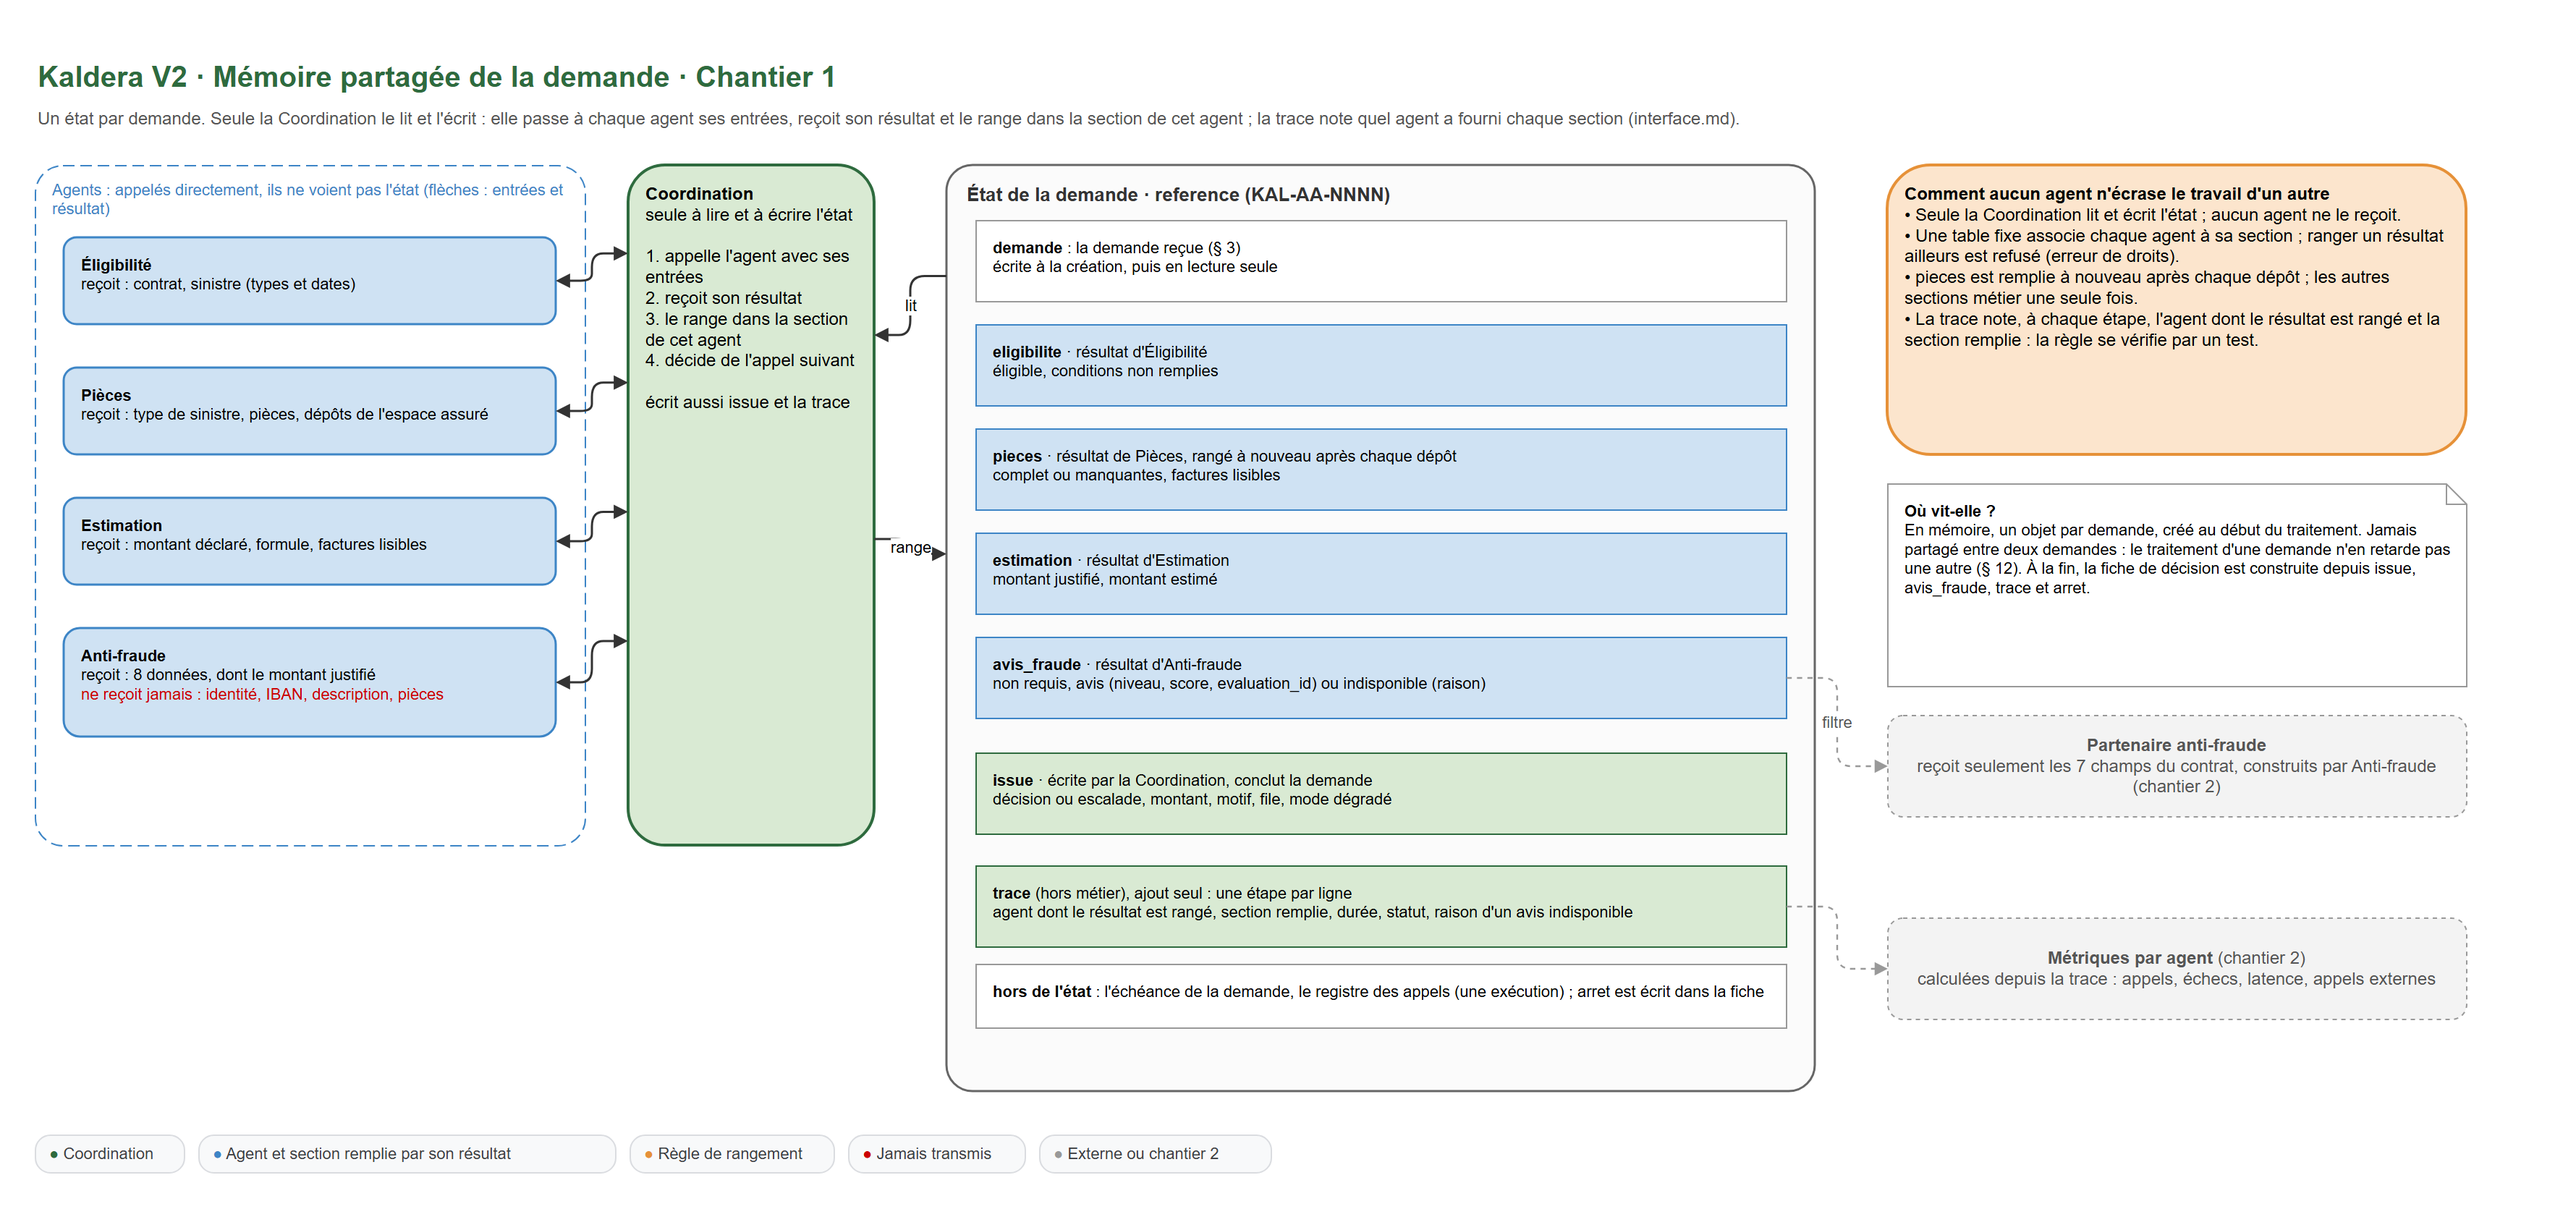
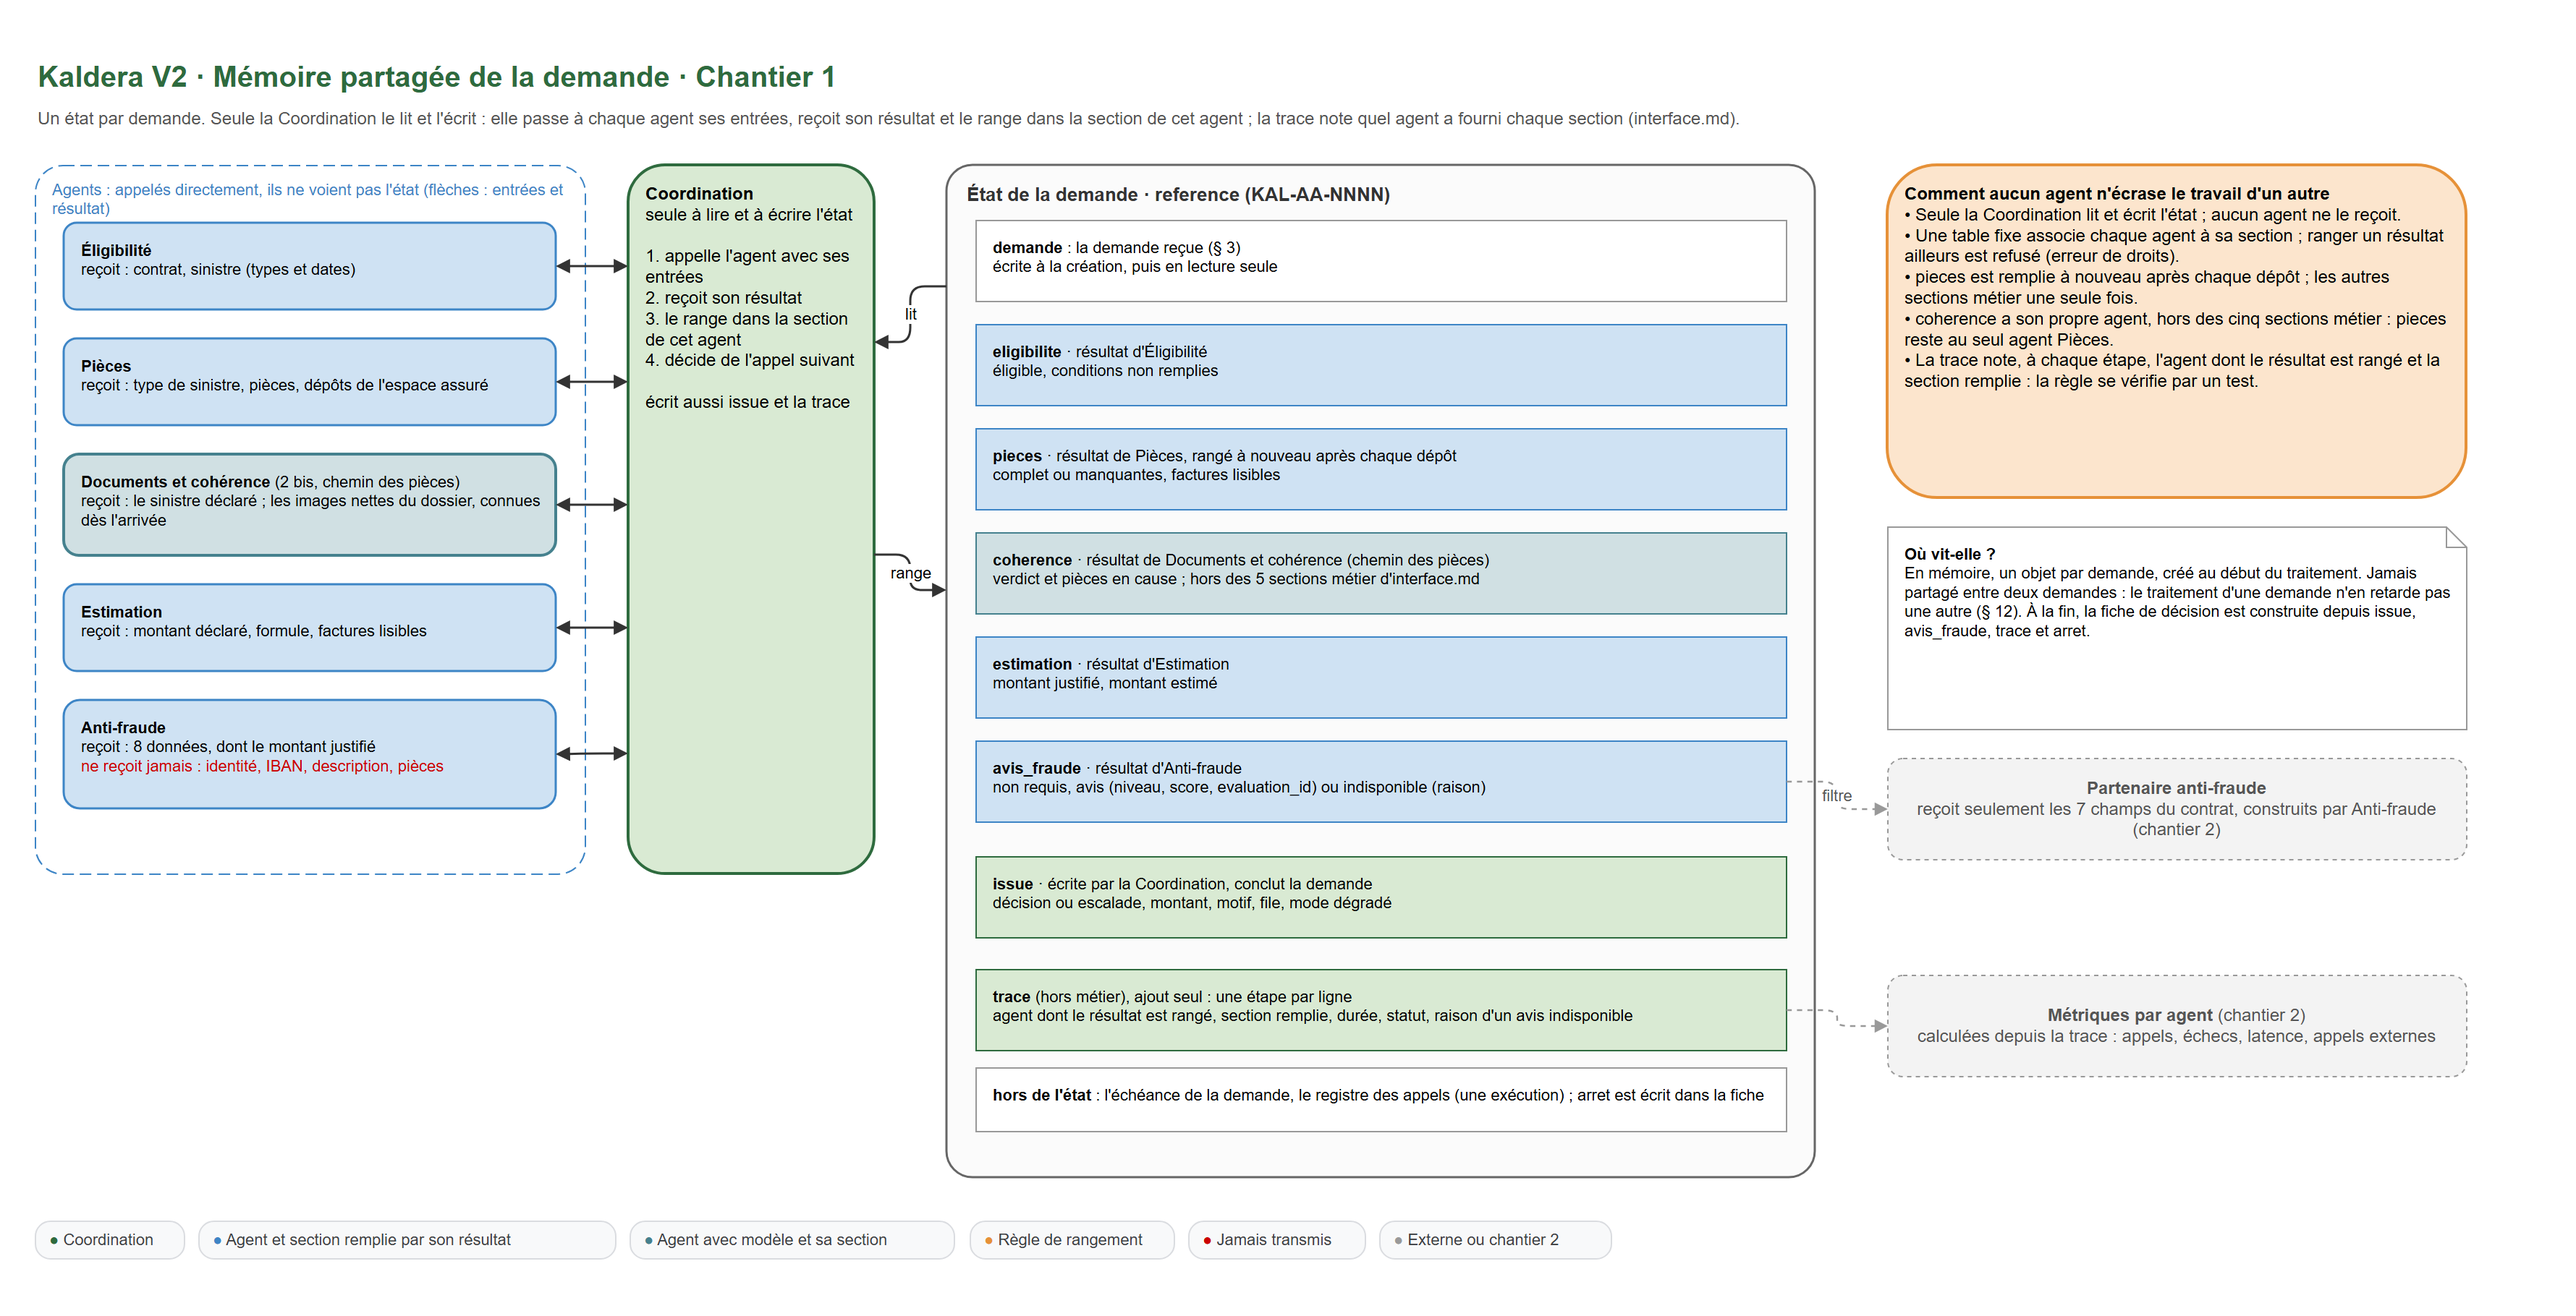
docs(schemas): schemas 0, 2, 3, 7 et N0 alignes sur l'agent Documents et coherence (depot de conception 9387fa4)

diff --git a/conception/journal-ajustements.md b/conception/journal-ajustements.md
@@ -26,4 +26,4 @@ Le dossier (`livrable/dossier-de-conception.pdf`) et les schémas reflètent la 
 - entrée 4 : schéma E aligné le 08/10 (contrôles avant toute lecture, image qui ne s'ouvre pas) ;
 - entrée 8 : schémas 5, 6, 7 et N2, tableau des bornes, textes de la conception et du livrable alignés le 08/10 (0,15 s et 0,4 s) ;
 - entrées 5 et 6 : schémas 1, 2, E et N1 et tableau des bornes alignés le 08/10 (`bd883ff`) ; reste le PDF.
-- entrées 10 à 12 : tableau des rôles, carte des agents, point ambigu du § 5 et borne `etapes_max` alignés le 08/10 dans `chantier-1-equipe-orchestration.md` ; schémas 1, A, E et N1 alignés le 08/10, la nuit (agent 2 bis, appel lancé à l'arrivée, mesures relancées ; dépôt de conception `b1b75a5`) ; reste le PDF.
+- entrées 10 à 12 : tableau des rôles, carte des agents, point ambigu du § 5 et borne `etapes_max` alignés le 08/10 dans `chantier-1-equipe-orchestration.md` ; schémas 1, A, E et N1 alignés le 08/10, la nuit (agent 2 bis, appel lancé à l'arrivée, mesures relancées ; dépôt de conception `b1b75a5`), puis 0, 2, 3, 7 et N0 (`9387fa4`) : les 13 schémas du dossier sont à jour ; reste le PDF.
